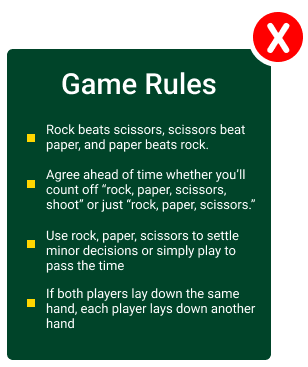
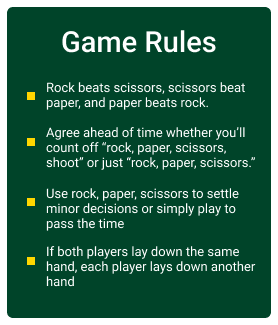
notlast

diff --git a/index.css b/index.css
@@ -23,7 +23,7 @@ body {
   background-color: #8cc461;
   border: 2px solid white;
   border-radius: 18px;
-  padding: 20px 60px;
+  padding: 10px 60px; /* keep 10px from border top/bottom */
   gap: 200px;
 }
 
@@ -31,11 +31,11 @@ body {
   color: white;
   font-size: 20px;
   font-weight: bold;
-  line-height: 0.9;
+  line-height: 1.25; /* increased line gap between lines */
 }
 
 .game-title h1 {
-  margin: 5px 0;
+  margin: 0; /* rely on line-height for spacing; keeps 10px to border via card padding */
 }
 
 .score-board {
@@ -54,8 +54,13 @@ body {
 }
 
 .score-box h2 {
-  font-size: 12px;
-  margin-bottom: 10px;
+  color: #656565; /* requested label color */
+  font-size: 16px; /* increased a bit more */
+  display: block;
+  width: calc(100% - 16px); /* fit container with 8px margins */
+  margin: 0 8px 10px; /* 8px left/right, 10px bottom as before */
+  line-height: 1.1;
+  letter-spacing: 2px; /* doubled letter spacing */
 }
 
 .score-box p {
@@ -186,8 +191,10 @@ body {
   margin-top: 20px;
   padding: 12px 24px;
   background-color: white;
-  border: none;
+  border: calc(2px * 1.2) solid #89c15e; /* border width increased by 20% */
   font-weight: bold;
+  color: #000; /* make text black */
+  font-size: 18px; /* increase text size */
   border-radius: 8px;
   cursor: pointer;
 }
@@ -207,6 +214,9 @@ body {
     0 0 0 70px rgba(18, 183, 34, 0.1);
   /* Fill any tiny anti-aliased gap at the icon edge */
   filter: drop-shadow(0 0 6px rgba(10, 122, 22, 0.75));
+  /* Nudge image to overlap icon-ring edge with glow, removing last thin gap */
+  transform: scale(1.08);
+  transform-origin: center center;
 }
 
 @keyframes pulse-glow {
@@ -270,14 +280,15 @@ body {
 
 .close-btn {
   position: absolute;
-  top: -10px;
-  right: -10px;
+  top: -40px;
+  right: -30px; 
   background-color: red;
   color: white;
-  padding: 5px 10px;
+  padding: 10px 15px; /* increased inner space by 5px */
   border-radius: 50%;
+  border: 6px solid #ffffff; /* increased border width to 6px */
   cursor: pointer;
-  font-size: 20px;
+  font-size: 26px; /* increased by additional 3px */
 }
 
 .choice {

diff --git a/trophy.html b/trophy.html
@@ -20,8 +20,11 @@
   <h1 class="win-heading">HURRAY!!</h1>
   <p class="win-subheading">YOU WON THE GAME</p>
   <button onclick="playAgain()" class="play-again">Play Again</button>
-  <button class="rules-button" onclick="document.getElementById('rules-image').style.display='flex'">RULES</button>
-  <img src="./assests/rules.png" class="rules-modal" id="rules-image" style="display: none;" />
+    <button class="rules-button" id="rules-button">RULES</button>
+    <div id="rules-modal" class="rules-modal" style="display: none;">
+        <img src="./assests/rules.png" alt="Rules Poster" />
+        <span id="close-rules" class="close-btn">✖</span>
+    </div>
 </div>
 
     <!-- Rules Modal -->
@@ -31,14 +34,18 @@
     </div>
 
     <script>
-    function playAgain() {
-        window.location.href = "index.html";
-    }
+        function playAgain() {
+                window.location.href = "index.html";
+        }
 
-    function toggleRules() {
-        const rulesImg = document.getElementById('rules-image');
-        rulesImg.style.display = rulesImg.style.display === 'flex' ? 'none' : 'flex';
-    }
+        document.getElementById('rules-button').addEventListener('click', () => {
+            const modal = document.getElementById('rules-modal');
+            modal.style.display = (modal.style.display === 'block' || modal.style.display === 'flex') ? 'none' : 'flex';
+        });
+
+        document.getElementById('close-rules').addEventListener('click', () => {
+            document.getElementById('rules-modal').style.display = 'none';
+        });
 </script>
 
 

diff --git a/trophy.css b/trophy.css
@@ -39,10 +39,11 @@ body {
   transform: translateX(-50%);
   padding: 12px 24px;
   background-color: white;
-  color: #8cc461;
-  border: none;
-  border-radius: 8px;
+  color: #000; /* black text */
+  border: calc(2px * 1.2) solid #89c15e; /* border width +20% */
+  border-radius: 12px; /* increased corner radius */
   font-weight: bold;
+  font-size: 18px; /* increase text size */
   cursor: pointer;
 }
 
@@ -56,6 +57,7 @@ body {
   border: 2px solid white;
   border-radius: 8px;
   font-weight: bold;
+  font-size: calc(16px + 5px); /* increase by ~5px */
   cursor: pointer;
 }
 
@@ -74,20 +76,21 @@ body {
 
 .close-btn {
   position: absolute;
-  top: -10px;
-  right: -10px;
+  top: -40px;
+  right: -30px; 
   background-color: red;
   color: white;
-  padding: 5px 10px;
+  padding: 10px 15px; /* increased inner space by 5px */
   border-radius: 50%;
+  border: 6px solid #ffffff; /* increased border width to 6px */
   cursor: pointer;
-  font-size: 20px;
+  font-size: 26px; /* increased by additional 3px */
 }
 
 .win-heading {
   color: white;
-  font-size: 60px;
-  font-weight: bold;
+  font-size:210px;
+  font-weight: 850;
   letter-spacing: 10px;
   margin: 20px 0 10px;
   text-align: center;
@@ -95,8 +98,8 @@ body {
 
 .win-subheading {
   color: white;
-  font-size: 28px;
-  font-weight: bold;
+  font-size: 300px;
+  font-weight: 850;
   letter-spacing: 7px;
   text-align: center;
   margin: 0 0 40px;

diff --git a/index.html b/index.html
@@ -26,7 +26,7 @@
           <p id="computer-score">0</p>
         </div>
         <div class="score-box">
-          <h2>YOUR SCORE</h2>
+          <h2>YOUR<br>       SCORE</h2>
           <p id="player-score">0</p>
         </div>
       </div>
